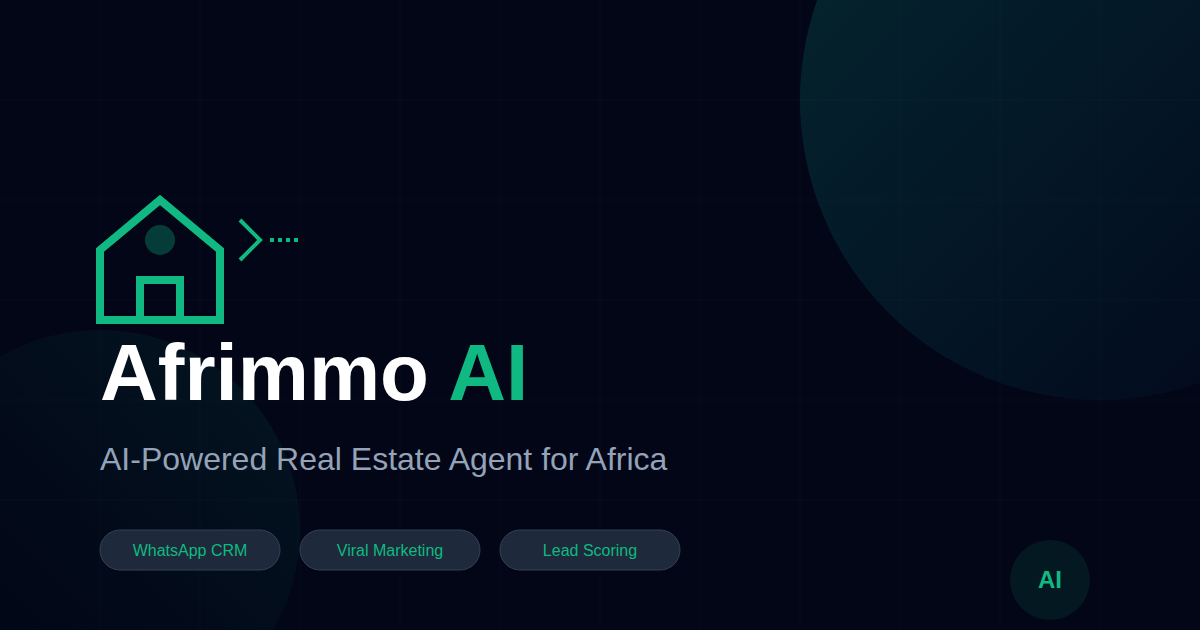
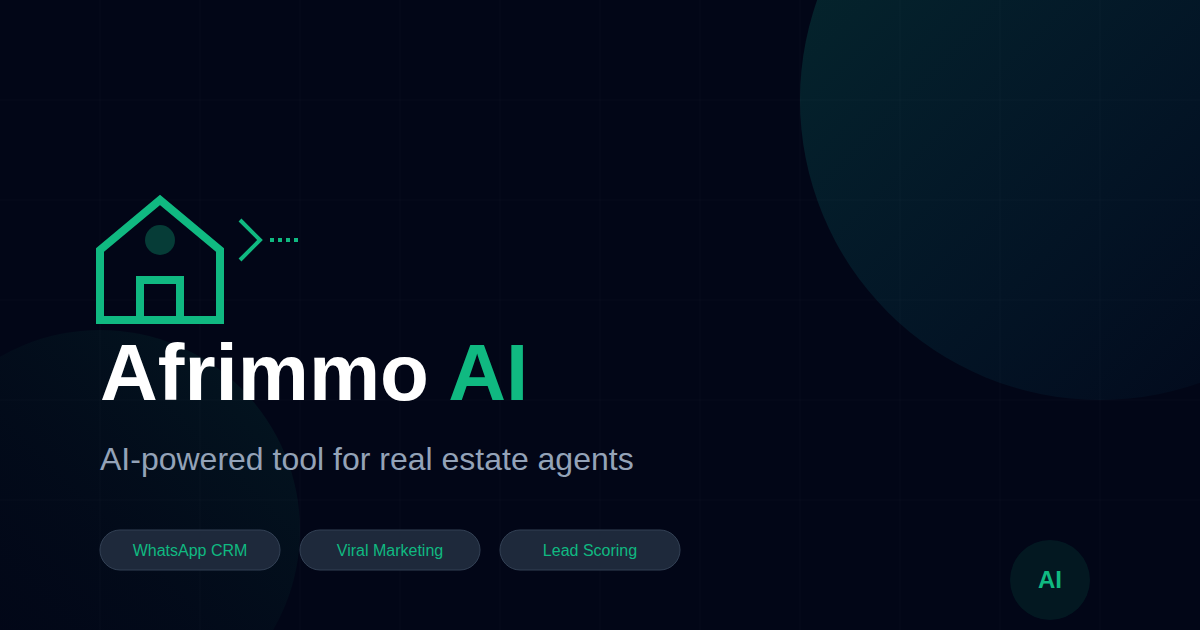
feat: implement OG images and update branding
- Created modern, branded OG and Twitter images in PNG and SVG formats
- Updated all branding strings to "AI-powered tool for real estate agents"
- Updated index.html and SEO components to use the new preview images
- Ensured raster (PNG) format is used for social media compatibility
- Updated utility functions and hooks with new branding and assets

Changed region(s): [[0.0925, 0.6937, 0.555, 0.754]]

diff --git a/index.html b/index.html
@@ -4,7 +4,7 @@
     <!-- Essential Meta Tags -->
     <meta charset="UTF-8" />
     <meta name="viewport" content="width=device-width, initial-scale=1.0, viewport-fit=cover" />
-    <meta name="description" content="Afrimmo AI - AI-powered real estate agent for Africa. Automate listings, generate viral marketing content, qualify leads on WhatsApp, and access hyper-local market data." />
+    <meta name="description" content="Afrimmo AI - AI-powered tool for real estate agents. Automate listings, generate viral marketing content, qualify leads on WhatsApp, and access hyper-local market data." />
     <meta name="keywords" content="real estate AI, property management, real estate marketing, WhatsApp automation, property listings, African real estate, real estate agent tools, property marketing automation, real estate CRM, property valuation" />
     <meta name="author" content="Afrimmo AI Technologies" />
     <meta name="robots" content="index, follow" />
@@ -14,7 +14,7 @@
     <!-- Open Graph / Facebook -->
     <meta property="og:type" content="website" />
     <meta property="og:url" content="https://afrimmo.ai/" />
-    <meta property="og:title" content="Afrimmo AI - AI-Powered Real Estate Agent for Africa" />
+    <meta property="og:title" content="Afrimmo AI - AI-powered tool for real estate agents" />
     <meta property="og:description" content="Transform your real estate business with Afrimmo AI. Automated listings, viral marketing content, WhatsApp lead qualification, and more for African property markets." />
     <meta property="og:image" content="https://afrimmo.ai/og-image.png" />
     <meta property="og:site_name" content="Afrimmo AI" />
@@ -23,7 +23,7 @@
     <!-- Twitter -->
     <meta name="twitter:card" content="summary_large_image" />
     <meta name="twitter:url" content="https://afrimmo.ai/" />
-    <meta name="twitter:title" content="Afrimmo AI - AI-Powered Real Estate Agent for Africa" />
+    <meta name="twitter:title" content="Afrimmo AI - AI-powered tool for real estate agents" />
     <meta name="twitter:description" content="Transform your real estate business with Afrimmo AI. Automated listings, viral marketing content, WhatsApp lead qualification, and more for African property markets." />
     <meta name="twitter:image" content="https://afrimmo.ai/twitter-image.png" />
     <meta name="twitter:site" content="@afrimmo_ai" />
@@ -44,7 +44,7 @@
     <!-- Preload critical resources -->
     <link rel="preload" href="https://fonts.googleapis.com/css2?family=Inter:wght@300;400;500;600;700&display=swap" as="style" onload="this.onload=null;this.rel='stylesheet'">
     
-    <title>Afrimmo AI - AI-Powered Real Estate Agent for Africa</title>
+    <title>Afrimmo AI - AI-powered tool for real estate agents</title>
     
     <style>
       body {
@@ -99,7 +99,7 @@
       "name": "Afrimmo AI",
       "operatingSystem": "Web Browser",
       "applicationCategory": "BusinessApplication",
-      "description": "AI-powered real estate agent for Africa. Automate listings, generate viral marketing content, qualify leads on WhatsApp, and access hyper-local market data.",
+      "description": "AI-powered tool for real estate agents. Automate listings, generate viral marketing content, qualify leads on WhatsApp, and access hyper-local market data.",
       "offers": {
         "@type": "Offer",
         "price": "0",

diff --git a/src/App.tsx b/src/App.tsx
@@ -11,7 +11,7 @@ const App: React.FC = () => {
         <AppProvider>
           <ToastProvider>
             <RealEstateSEO
-              title="Afrimmo AI - AI-Powered Real Estate Agent for Africa"
+              title="Afrimmo AI - AI-powered tool for real estate agents"
               description="Transform your real estate business with Afrimmo AI. Automated listings, viral marketing content, WhatsApp lead qualification, and more for African property markets."
               keywords={[
                 'real estate agent',
@@ -36,19 +36,19 @@ const App: React.FC = () => {
                 'Kigali real estate'
               ]}
               canonicalUrl="https://afrimmo.ai/"
-              ogTitle="Afrimmo AI - AI-Powered Real Estate Agent for Africa"
+              ogTitle="Afrimmo AI - AI-powered tool for real estate agents"
               ogDescription="Transform your real estate business with Afrimmo AI. Automated listings, viral marketing content, WhatsApp lead qualification, and more for African property markets."
               ogImage="https://afrimmo.ai/og-image.png"
               ogUrl="https://afrimmo.ai/"
               twitterCard="summary_large_image"
-              twitterTitle="Afrimmo AI - AI-Powered Real Estate Agent for Africa"
+              twitterTitle="Afrimmo AI - AI-powered tool for real estate agents"
               twitterDescription="Transform your real estate business with Afrimmo AI. Automated listings, viral marketing content, WhatsApp lead qualification, and more for African property markets."
               twitterImage="https://afrimmo.ai/twitter-image.png"
               schema={{
                 "@context": "https://schema.org",
                 "@type": "RealEstateAgent",
                 "name": "Afrimmo AI",
-                "description": "AI-powered real estate agent for Africa. Automate listings, generate viral marketing content, qualify leads on WhatsApp, and access hyper-local market data.",
+                "description": "AI-powered tool for real estate agents. Automate listings, generate viral marketing content, qualify leads on WhatsApp, and access hyper-local market data.",
                 "url": "https://afrimmo.ai/",
                 "image": "https://afrimmo.ai/logo.jpg",
                 "areaServed": "Africa",

diff --git a/src/config/seo.ts b/src/config/seo.ts
@@ -4,7 +4,7 @@ export const SEO_CONFIG = {
   // Site-wide settings
   site: {
     name: 'Afrimmo AI',
-    title: 'Afrimmo AI - AI-Powered Real Estate Agent for Africa',
+    title: 'Afrimmo AI - AI-powered tool for real estate agents',
     description: 'Transform your real estate business with Afrimmo AI. Automated listings, viral marketing content, WhatsApp lead qualification, and more for African property markets.',
     url: 'https://afrimmo.ai',
     type: 'website',
@@ -81,7 +81,7 @@ export const SEO_CONFIG = {
   // Page-specific titles and descriptions
   pages: {
     '/': {
-      title: 'Afrimmo AI - AI-Powered Real Estate Agent for Africa',
+      title: 'Afrimmo AI - AI-powered tool for real estate agents',
       description: 'Transform your real estate business with Afrimmo AI. Automated listings, viral marketing content, WhatsApp lead qualification, and more for African property markets.'
     },
     '/today': {
@@ -118,7 +118,7 @@ export const SEO_CONFIG = {
       "name": "Afrimmo AI",
       "operatingSystem": "Web Browser",
       "applicationCategory": "BusinessApplication",
-      "description": "AI-powered real estate agent for Africa. Automate listings, generate viral marketing content, qualify leads on WhatsApp, and access hyper-local market data.",
+      "description": "AI-powered tool for real estate agents. Automate listings, generate viral marketing content, qualify leads on WhatsApp, and access hyper-local market data.",
       "offers": {
         "@type": "Offer",
         "price": "0",
@@ -139,7 +139,7 @@ export const SEO_CONFIG = {
       "@type": "ProfessionalService",
       "serviceType": "Real Estate Agent",
       "name": "Afrimmo AI",
-      "description": "AI-powered real estate agent for Africa. Automate listings, generate viral marketing content, qualify leads on WhatsApp, and access hyper-local market data.",
+      "description": "AI-powered tool for real estate agents. Automate listings, generate viral marketing content, qualify leads on WhatsApp, and access hyper-local market data.",
       "url": "https://afrimmo.ai",
       "logo": "https://afrimmo.ai/logo.png",
       "image": "https://afrimmo.ai/og-image.jpg",

diff --git a/src/hooks/useDynamicSEO.ts b/src/hooks/useDynamicSEO.ts
@@ -12,7 +12,7 @@ const pageSEOData: Record<string, {
   twitterDescription?: string;
 }> = {
   '/': {
-    title: 'Afrimmo AI - AI-Powered Real Estate Agent for Africa',
+    title: 'Afrimmo AI - AI-powered tool for real estate agents',
     description: 'Transform your real estate business with Afrimmo AI. Automated listings, viral marketing content, WhatsApp lead qualification, and more for African property markets.',
     keywords: ['real estate AI', 'property management', 'real estate marketing', 'WhatsApp automation', 'property listings', 'African real estate']
   },

diff --git a/src/hooks/useRealEstateSEO.ts b/src/hooks/useRealEstateSEO.ts
@@ -13,7 +13,7 @@ const realEstatePageSEOData: Record<string, {
   propertyType?: string;
 }> = {
   '/': {
-    title: 'Afrimmo AI - The #1 AI Real Estate Agent for Africa',
+    title: 'Afrimmo AI - AI-powered tool for real estate agents',
     description: 'Afrimmo AI is the ultimate assistant for real estate agents in Africa. Automate property listings, generate viral AI video tours, qualify leads on WhatsApp 24/7, and access hyper-local market data for Lagos, Nairobi, and Accra.',
     keywords: [
       'AI real estate agent Africa',

diff --git a/src/components/RealEstateSEO.tsx b/src/components/RealEstateSEO.tsx
@@ -33,7 +33,7 @@ interface RealEstateSEOProps {
 }
 
 const RealEstateSEO: React.FC<RealEstateSEOProps> = ({
-  title = 'Afrimmo AI - AI-Powered Real Estate Agent for Africa',
+  title = 'Afrimmo AI - AI-powered tool for real estate agents',
   description = 'Transform your real estate business with Afrimmo AI. Automated listings, viral marketing content, WhatsApp lead qualification, and more for African property markets.',
   keywords = [
     'real estate agent',

diff --git a/src/components/SEO.tsx b/src/components/SEO.tsx
@@ -18,7 +18,7 @@ interface SEOProps {
 }
 
 const SEO: React.FC<SEOProps> = ({
-  title = 'Afrimmo AI - AI-Powered Real Estate Agent for Africa',
+  title = 'Afrimmo AI - AI-powered tool for real estate agents',
   description = 'Transform your real estate business with Afrimmo AI. Automated listings, viral marketing content, WhatsApp lead qualification, and more for African property markets.',
   keywords = [
     'real estate AI',
